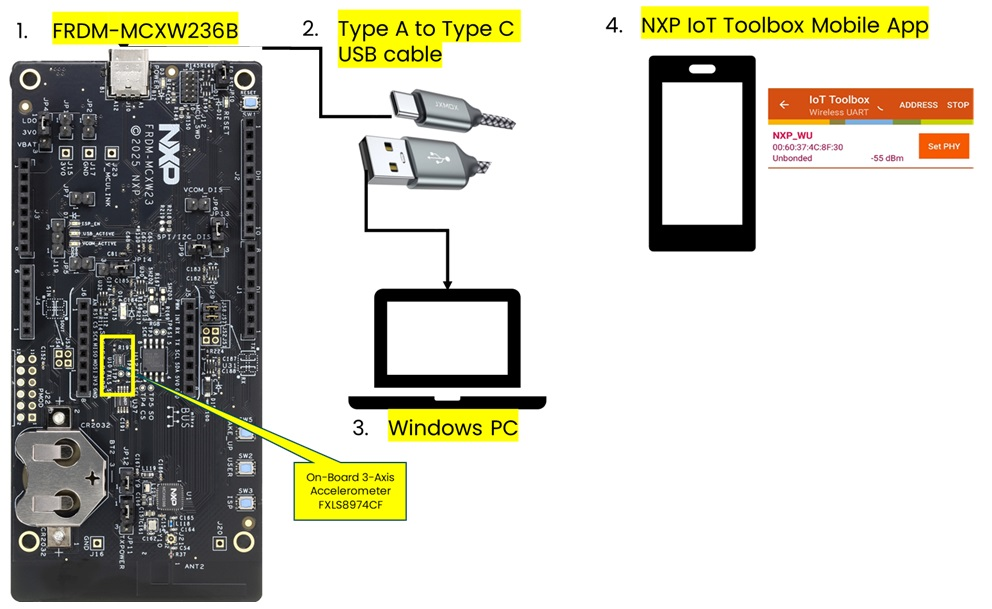
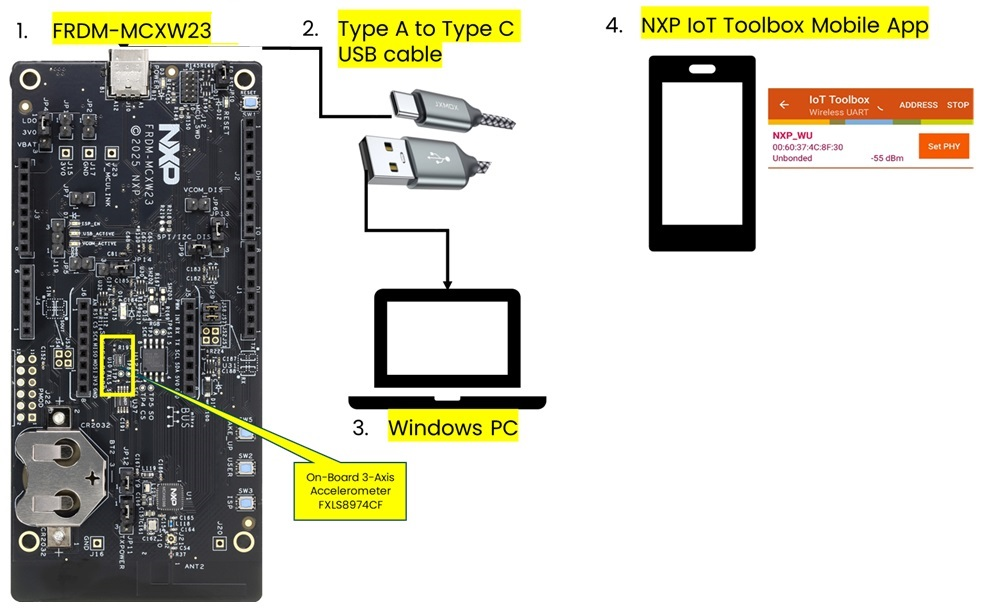
[ACH-1147]: Minor updates to correct board name

diff --git a/README.md b/README.md
@@ -3,7 +3,7 @@
 
 ## Low power wireless sensors examples for MCXW23
 
-- These examples demonstrate the ease of energy-efficient low-power wireless sensing applications development with FRDM-MCXW236B and low-power sensors expansion boards. It uses on-board FXLS8974CF 3-axis accelerometer, NMH1000 magnetic switch and MPL3115 pressure/altimeter sensor to demonstrate low-power wireless sensing application development with MCXW23x and transmit ALERT to connected end user via BLE wireless UART.<br>
+- These examples demonstrate the ease of energy-efficient low-power wireless sensing applications development with FRDM-MCXW23 and low-power sensors expansion boards. It uses on-board FXLS8974CF 3-axis accelerometer, NMH1000 magnetic switch and MPL3115 pressure/altimeter sensor to demonstrate low-power wireless sensing application development with MCXW23x and transmit ALERT to connected end user via BLE wireless UART.<br>
 
 - See below for more details on the MCXW23 MCU and low-power sensors used in these examples:<br><br>
 
@@ -23,7 +23,7 @@
   - Home security, access control
   - Battery-operated connected sensing nodes etc.<br><br>
 
-- These example demonstrates ease-of-enablement using NXP's FRDM-MCXW236B and sensors development ecosystem to accelerate prototyping for your multiple such applications.<br><br>
+- These example demonstrates ease-of-enablement using NXP's FRDM-MCXW23 and sensors development ecosystem to accelerate prototyping for your multiple such applications.<br><br>
 [<img src="./images/Sensors_Development_Ecosystem.jpg" width="800"/>](Sensors_Development_Ecosystem.PNG)<br>
 
 - Note: These wireless sensors examples for NMH1000 and MPL3115 sensors work with NXP sensor shield boards (e.g. NXP FRDMSTBI-NMH1000 and NXP FRDMSTBC-P3115) as well as with MikroE click boards (e.g. MikroE Hall Switch 3 click and MikroE Accel&Pressure click). User can choose to use either NXP sensor shield board or MikroE click board and these examples will run seamlessly. For more details on these sensor expansion boards, refer to section 2.
@@ -48,12 +48,12 @@
 
 ## 1. Software<a name="step1"></a>
 - IoT Sensing SDK (ISSDK) v1.8 offered as middleware in MCUXpresso SDK for supported platforms
-- MCUXpresso SDK v25.06.00 for FRDM-MCXW236B or newer
+- MCUXpresso SDK v25.06.00 for FRDM-MCXW23 or newer
 - VS Code v1.100.1
 - NXP IoT ToolBox mobile app providing user-friendly way to test the BLE demo applications.
 
 ## 2. Hardware<a name="step2"></a>
-- [FRDM-MCXW236B](https://www.nxp.com/design/design-center/development-boards-and-designs/FRDM-MCXN236) MCU board with on-board FXLS8974CF accelerometer
+- [FRDM-MCXW23](https://www.nxp.com/design/design-center/development-boards-and-designs/FRDM-MCXW23) MCU board with on-board FXLS8974CF accelerometer
 - [FRDMSTBI-NMH1000](https://www.nxp.com/part/FRDMSTBI-NMH1000) expansion shield board from NXP for NMH1000 magnetic switch sensor.
 - [FRDMSTBC-P3115](https://www.nxp.com/part/FRDMSTBC-P3115) expansion shield board from NXP for MPL3115 absolute pressure sensor.
 - [Hall Switch 3 click](https://www.mikroe.com/hall-switch-3-click) expansion click board from MikroE for NMH1000 magnetic switch sensor.
@@ -91,7 +91,7 @@
 - Download and Install [VS Code IDE v1.100.1 or newer](https://code.visualstudio.com/download)
 - Download and Install [MCUXpresso Installer for VS Code](https://github.com/nxp-mcuxpresso/vscode-for-mcux/wiki/Dependency-Installation)
 - Follow the [Getting started with MCUXpresso for VS code](https://www.nxp.com/design/design-center/training/TIP-GETTING-STARTED-WITH-MCUXPRESSO-FOR-VS-CODE)
-- Download and Install MCUXpresso SDK v25.06.00 for FRDM-MCXW236B or newer
+- Download and Install MCUXpresso SDK v25.06.00 for FRDM-MCXW23 or newer
 - Install [NXP IoT ToolBox App - Android Store](https://play.google.com/store/apps/details?id=com.freescale.kinetisbletoolbox&hl=en_US&pli=1) or
   [NXP IoT ToolBox App - Apple Store](https://apps.apple.com/us/app/iot-toolbox/id1362450908)
 
@@ -126,26 +126,26 @@
 #### 3.2.3 Step 3: Build example projects
 - Select example project that you want to build and run.
 - Connect the appropriate sensor shield board (Refer to [section 3.1.1](#3.1.1)):
-  - If you want to run FXLS8974CF examples then you dont need to connect any sensor shield board to FRDM-MCXW236B.
-  - If you want to run NMH1000 based example then connect FRDMSTBI-NMH1000 or Hall Switch 3 click board to FRDM-MCXW236B.
-  - If you want to run MPL3115 based examples then connect FRDMSTBC-P3115 or Accel&Pressure click board to to FRDM-MCXW236B.
+  - If you want to run FXLS8974CF examples then you dont need to connect any sensor shield board to FRDM-MCXW23.
+  - If you want to run NMH1000 based example then connect FRDMSTBI-NMH1000 or Hall Switch 3 click board to FRDM-MCXW23.
+  - If you want to run MPL3115 based examples then connect FRDMSTBC-P3115 or Accel&Pressure click board to to FRDM-MCXW23.
 - Right click on chosen project and select "Prestine Build/Rebuild Project" to start clean build the project.
 
 ## 4 Run Demos<a name="step4"></a>
 
 ### 4.1 Run Demo 1: Low-Power Motion Wakeup with FXLS8974CF using BLE Wireless UART<a name="step4.1"></a>
-#### 4.1.1 Step 1: Flash the demo firmware on FRDM-MCXW236B board
-- Connect a USB-C cable between the host PC and the MCU-Link USB port on the target FRDM-MCXW236B board.
+#### 4.1.1 Step 1: Flash the demo firmware on FRDM-MCXW23 board
+- Connect a USB-C cable between the host PC and the MCU-Link USB port on the target FRDM-MCXW23 board.
 - Choose the "frmdmcxw23_fxls8974cf_motion_wakeup_ble" project.
 - Right click on the project and select "Debug".
 - Debugger will start downloading the program to device.
 - Click on “Continue” button or press "F5" from your keyboard to resume running the downloaded program on device.
 - Click on “Terminate” button to terminate the debug session.
-- Disconnect the USB-C cable connected to FRDM-MCXW236B and reconnect.
+- Disconnect the USB-C cable connected to FRDM-MCXW23 and reconnect.
 
 #### 4.1.2 Step 2: Start Advertising
 - After that you should see white/bluish LED blinking and when you open a serial terminal (with baudrate 115200). You will see W UART starting as GAP central.
-- On the FRDM-MCXW236B board, press SW5 followed by SW2, then you will see the profile shift to GAP Peripheral and now advertising.<br><br>
+- On the FRDM-MCXW23 board, press SW5 followed by SW2, then you will see the profile shift to GAP Peripheral and now advertising.<br><br>
 <img src="./images/AdvertisingMode.jpg" width="400"/><br>
 
 
@@ -157,26 +157,26 @@
   [<img src="./images/Connect_Device.png" width="400"/>](Connect_Device.png)
 
 #### 4.1.4 Step 4: Run the FXLS8974CF motion wakeup Demo
-- When you show tampering/movement on the FRDM-MCXW236B, the on-board FXLS8974CF accelerometer detects the motion and wakes-up.
+- When you show tampering/movement on the FRDM-MCXW23, the on-board FXLS8974CF accelerometer detects the motion and wakes-up.
 - At that point, you will see Wireless UART app showing ALERT message as shown below:<br><br>
   [<img src="./images/Motion_Tampering_Detect.jpg" width="400"/>](Motion_Tampering_Detect.pjpgng)
-- FRDM-MCXW236B board will also show "RED" LED status. The "RED" LED status will continously remain ON till tampering/motion detected.
+- FRDM-MCXW23 board will also show "RED" LED status. The "RED" LED status will continously remain ON till tampering/motion detected.
 - If there is no further tampering/motion detected for continous ~5 sec, the on-board FXLS8974CF accelerometer will detect no-motion and update the status message
-  "Your Asset is Safe" on wirless UART app. The "RED" LED status on FRDM-MCXW236B board will also go OFF.
+  "Your Asset is Safe" on wirless UART app. The "RED" LED status on FRDM-MCXW23 board will also go OFF.
   
 ### 4.2 Run Demo 2: Low-Power Magnetic Wakeup with NMH1000 using BLE Wireless UART<a name="step4.2"></a>
-#### 4.2.1 Step 1: Flash the demo firmware on FRDM-MCXW236B board
-- Connect a USB-C cable between the host PC and the MCU-Link USB port on the target FRDM-MCXW236B board.
+#### 4.2.1 Step 1: Flash the demo firmware on FRDM-MCXW23 board
+- Connect a USB-C cable between the host PC and the MCU-Link USB port on the target FRDM-MCXW23 board.
 - Choose the "frmdmcxw23_nmh1000_mag_wakeup_ble" project.
 - Right click on the project and select "Debug".
 - Debugger will start downloading the program to device.
 - Click on “Continue” button or press "F5" from your keyboard to resume running the downloaded program on device.
 - Click on “Terminate” button to terminate the debug session.
-- Disconnect the USB-C cable connected to FRDM-MCXW236B and reconnect.
+- Disconnect the USB-C cable connected to FRDM-MCXW23 and reconnect.
 
 #### 4.2.2 Step 2: Start Advertising
 - After that you should see white/bluish LED blinking and when you open a serial terminal (with baudrate 115200). You will see W UART starting as GAP central.
-- On the FRDM-MCXW236B board, press SW5 followed by SW2, then you will see the profile shift to GAP Peripheral and now advertising.<br><br>
+- On the FRDM-MCXW23 board, press SW5 followed by SW2, then you will see the profile shift to GAP Peripheral and now advertising.<br><br>
 <img src="./images/AdvertisingMode.jpg" width="400"/><br>
 
 
@@ -188,24 +188,24 @@
   [<img src="./images/Connect_Device.png" width="400"/>](Connect_Device.png)
 
 #### 4.2.4 Step 4: Run the NMH1000 mag wakeup Demo
-- When you put a magnet near to the NMH1000 sensor to show tampering on the FRDM-MCXW236B, NMH1000 detects change in magnetic field and wakes-up.
+- When you put a magnet near to the NMH1000 sensor to show tampering on the FRDM-MCXW23, NMH1000 detects change in magnetic field and wakes-up.
 - At that point, you will see Wireless UART app showing ALERT message as shown below:<br><br>
   [<img src="./images/Magnetic_Tampering_Detect.jpg" width="400"/>](Magnetic_Tampering_Detect.jpg)
-- FRDM-MCXW236B board will also show "RED" LED status. The "RED" LED status will continously remain ON till tampering/magnetic field change detected.
+- FRDM-MCXW23 board will also show "RED" LED status. The "RED" LED status will continously remain ON till tampering/magnetic field change detected.
 
 ### 4.3 Run Demo 3: Low-Power Pressure Wakeup with MPL3115 using BLE Wireless UART<a name="step4.3"></a>
-#### 4.3.1 Step 1: Flash the demo firmware on FRDM-MCXW236B board
-- Connect a USB-C cable between the host PC and the MCU-Link USB port on the target FRDM-MCXW236B board.
+#### 4.3.1 Step 1: Flash the demo firmware on FRDM-MCXW23 board
+- Connect a USB-C cable between the host PC and the MCU-Link USB port on the target FRDM-MCXW23 board.
 - Choose the "frmdmcxw23_mpl3115_pressure_wakeup_ble" project.
 - Right click on the project and select "Debug".
 - Debugger will start downloading the program to device.
 - Click on “Continue” button or press "F5" from your keyboard to resume running the downloaded program on device.
 - Click on “Terminate” button to terminate the debug session.
-- Disconnect the USB-C cable connected to FRDM-MCXW236B and reconnect.
+- Disconnect the USB-C cable connected to FRDM-MCXW23 and reconnect.
 
 #### 4.3.2 Step 2: Start Advertising
 - After that you should see white/bluish LED blinking and when you open a serial terminal (with baudrate 115200). You will see W UART starting as GAP central.
-- On the FRDM-MCXW236B board, press SW5 followed by SW2, then you will see the profile shift to GAP Peripheral and now advertising.<br><br>
+- On the FRDM-MCXW23 board, press SW5 followed by SW2, then you will see the profile shift to GAP Peripheral and now advertising.<br><br>
 <img src="./images/AdvertisingMode.jpg" width="400"/><br>
 
 
